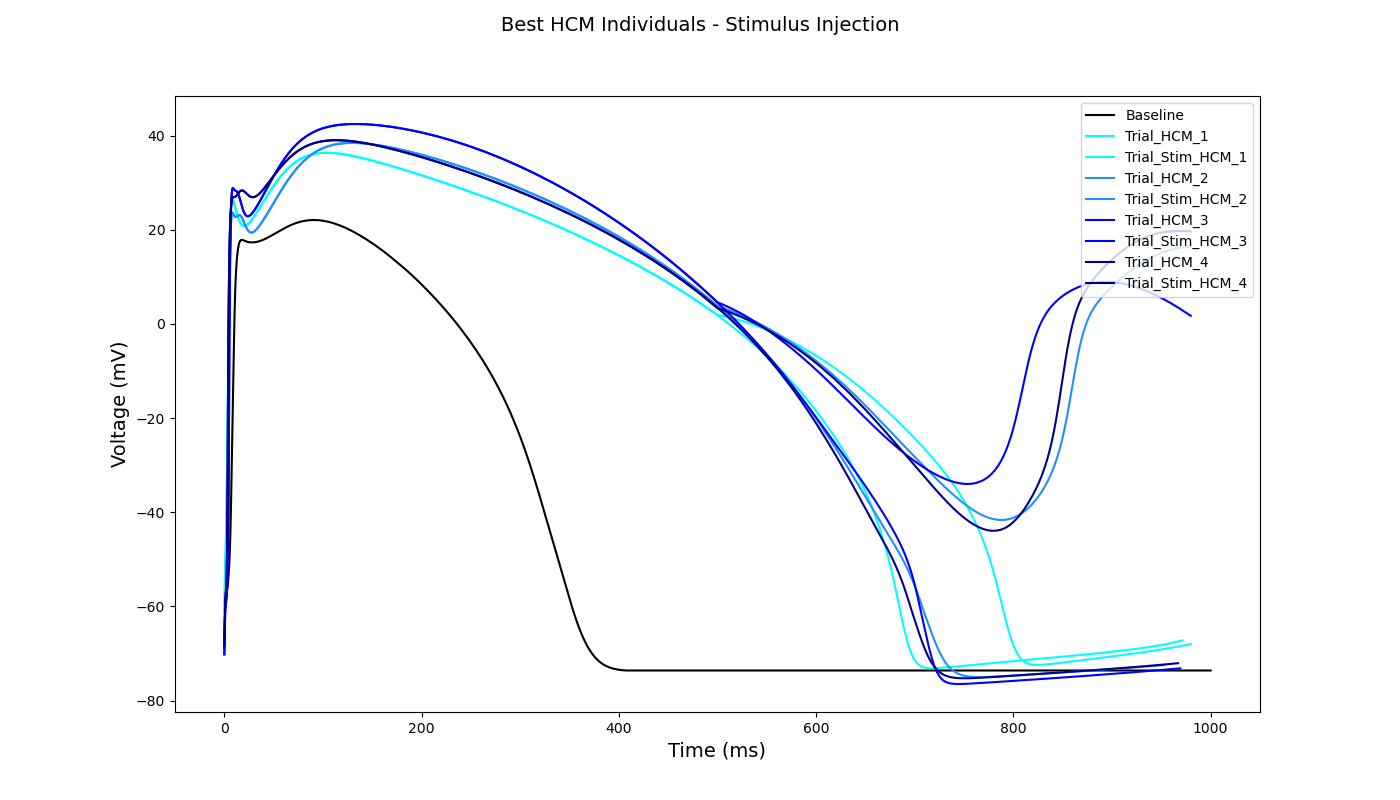
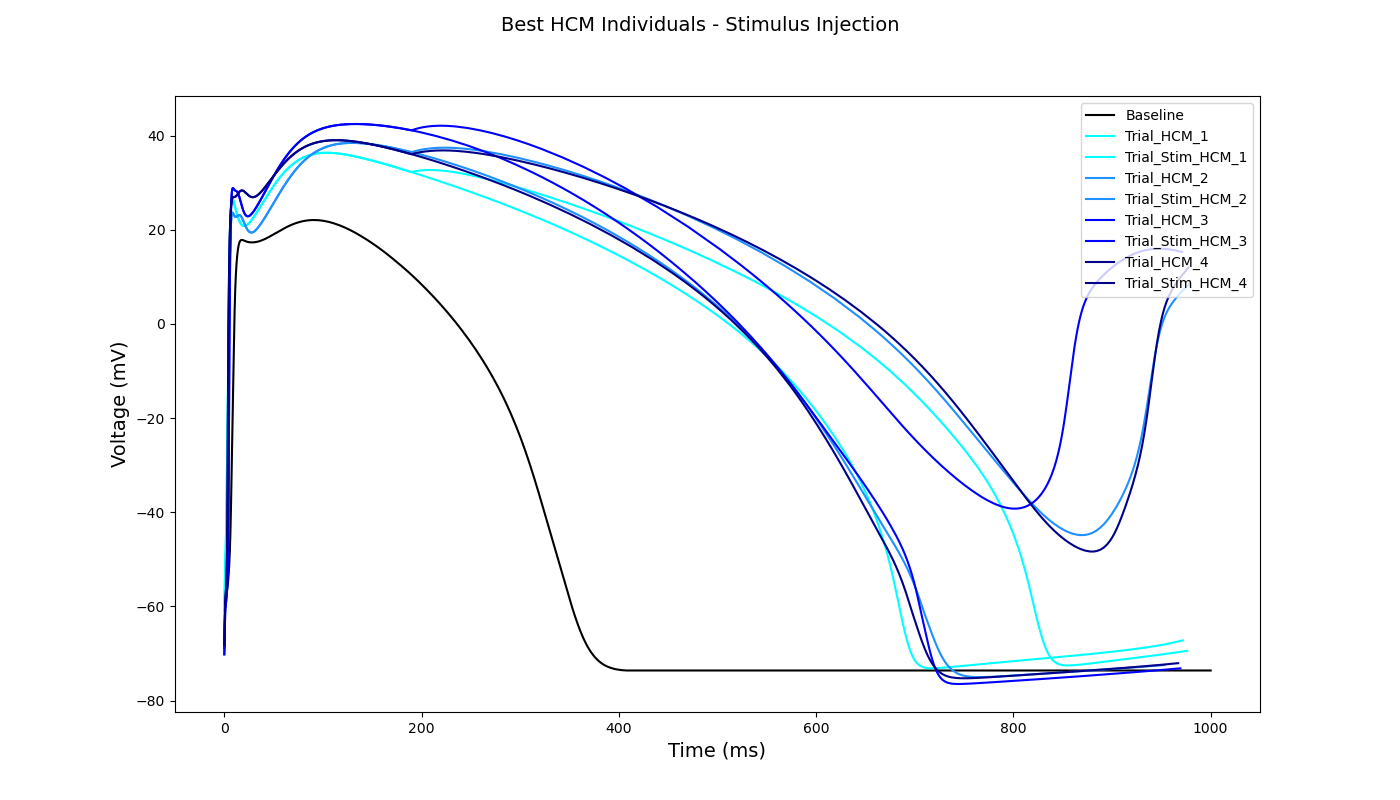
newplot

diff --git a/GA_bNa_bCa_NaK/stim.py b/GA_bNa_bCa_NaK/stim.py
@@ -49,24 +49,4 @@ plt.suptitle('Best CTRL Individuals - Stimulus Injection', fontsize=14)
 plt.savefig('Plot_Stim_CTRL.png')
 plt.show()
 
-################ PLOT TOGETHER STIMULATED POPULATIONS ###############
-plt.figure(figsize=(12,8))
-t, v = baseline_run()
-plt.plot(t, v, '-k', label = 'Baseline')
-
-for i in list(range(0,len(pop_CTRL))):
-    t_leak, v_leak, t_rrc, v_rrc = stim(pop_CTRL[i])
-    plt.plot(t_rrc, v_rrc, color=c_CTRL[i], label = f'Trial_Stim_HCM_{i+1}')
-
-for i in list(range(0,len(pop_HCM))):
-    t_leak, v_leak, t_rrc, v_rrc = stim(pop_HCM[i])
-    plt.plot(t_rrc, v_rrc, color=c_HCM[i], label = f'Trial_Stim_HCM_{i+1}')
-
-plt.legend(loc='upper right')
-plt.ylabel('Voltage (mV)', fontsize=14)
-plt.xlabel('Time (ms)', fontsize=14)
-plt.suptitle('Best Individuals - Stimulus Injection', fontsize=14)
-plt.savefig('Plot_Stim.png')
-plt.show()
-
 # %%

diff --git a/GA_bNa_bCa_NaK/functions.py b/GA_bNa_bCa_NaK/functions.py
@@ -231,7 +231,7 @@ def stim(ind):
 
     sim.reset()
 
-    proto.schedule(0.04, 2510, 480, 1000, 1)
+    proto.schedule(0.04, 2200, 1000, 1000, 1)
     sim.set_protocol(proto)
     dat_rrc = sim.run(5000)
 
